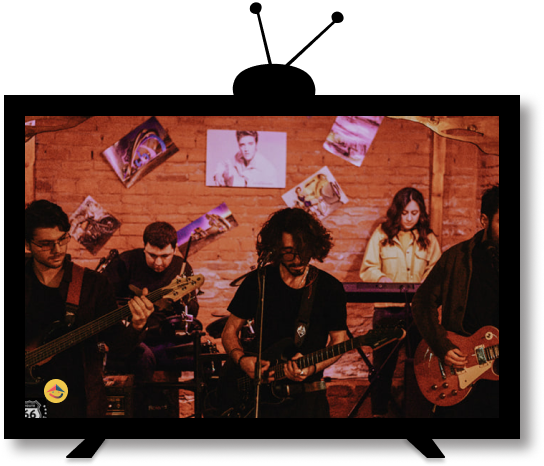
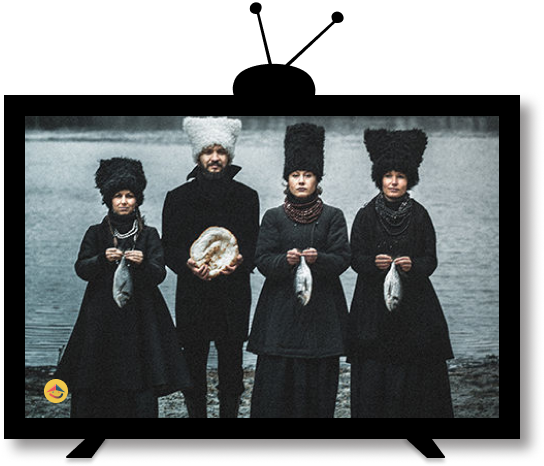
switch to folksoul

diff --git a/public/index.html b/public/index.html
@@ -7,7 +7,7 @@
     <meta name="theme-color" content="#000000" />
     <meta
       name="description"
-      content="A website made for a musical band Inside Joke."
+      content="A website made for a musical band Folksoul."
     />
     <link rel="apple-touch-icon" href="%PUBLIC_URL%/logo192.png" />
     <!--
@@ -24,7 +24,7 @@
       work correctly both with client-side routing and a non-root public URL.
       Learn how to configure a non-root public URL by running `npm run build`.
     -->
-    <title>Inside Joke</title>
+    <title>Folksoul</title>
   </head>
   <body>
     <noscript>You need to enable JavaScript to run this app.</noscript>

diff --git a/README.md b/README.md
@@ -1,8 +1,8 @@
 ![Logo](./readme/assets/img/logo.png)
 
-## Inside Joke
+## Folksoul
  
-A website made for a musical band Inside Joke. You can visit the production version [here!](https://inside-joke.sandro.redberryinternship.ge/)
+A website made for a musical band Folksoul. You can visit the production version [here!](https://folksoul.sandro.redberryinternship.ge/)
 
 ### Table of Contents
 
@@ -32,7 +32,7 @@ A website made for a musical band Inside Joke. You can visit the production vers
 
 1\. First of all clone the repository from github:
 ```sh
-git clone https://github.com/RedberryInternship/inside-joke-front-Domianidze.git
+git clone https://github.com/RedberryInternship/folksoul-front-Domianidze.git
 ```
 2\. Secondly install all the dependencies:
 ```sh
@@ -50,7 +50,7 @@ npm start
 ```
 
 ### Testing
-Inside Joke uses ``` @cypress ```  for testing.
+Folksoul uses ``` @cypress ```  for testing.
 
 you can run and view tests in the Cypress GUI. You can open the Cypress GUI  using the following commands:
 
@@ -124,5 +124,5 @@ npm run build
 
 ### Resources
 
-*  [Project Details](https://redberry.gitbook.io/assignment-iii-inside-joke/)
+*  [Project Details](https://redberry.gitbook.io/assignment-iii-folksoul/)
 *  [Git Commit Rules](https://redberry.gitbook.io/resources/git-is-semantikuri-komitebi)
